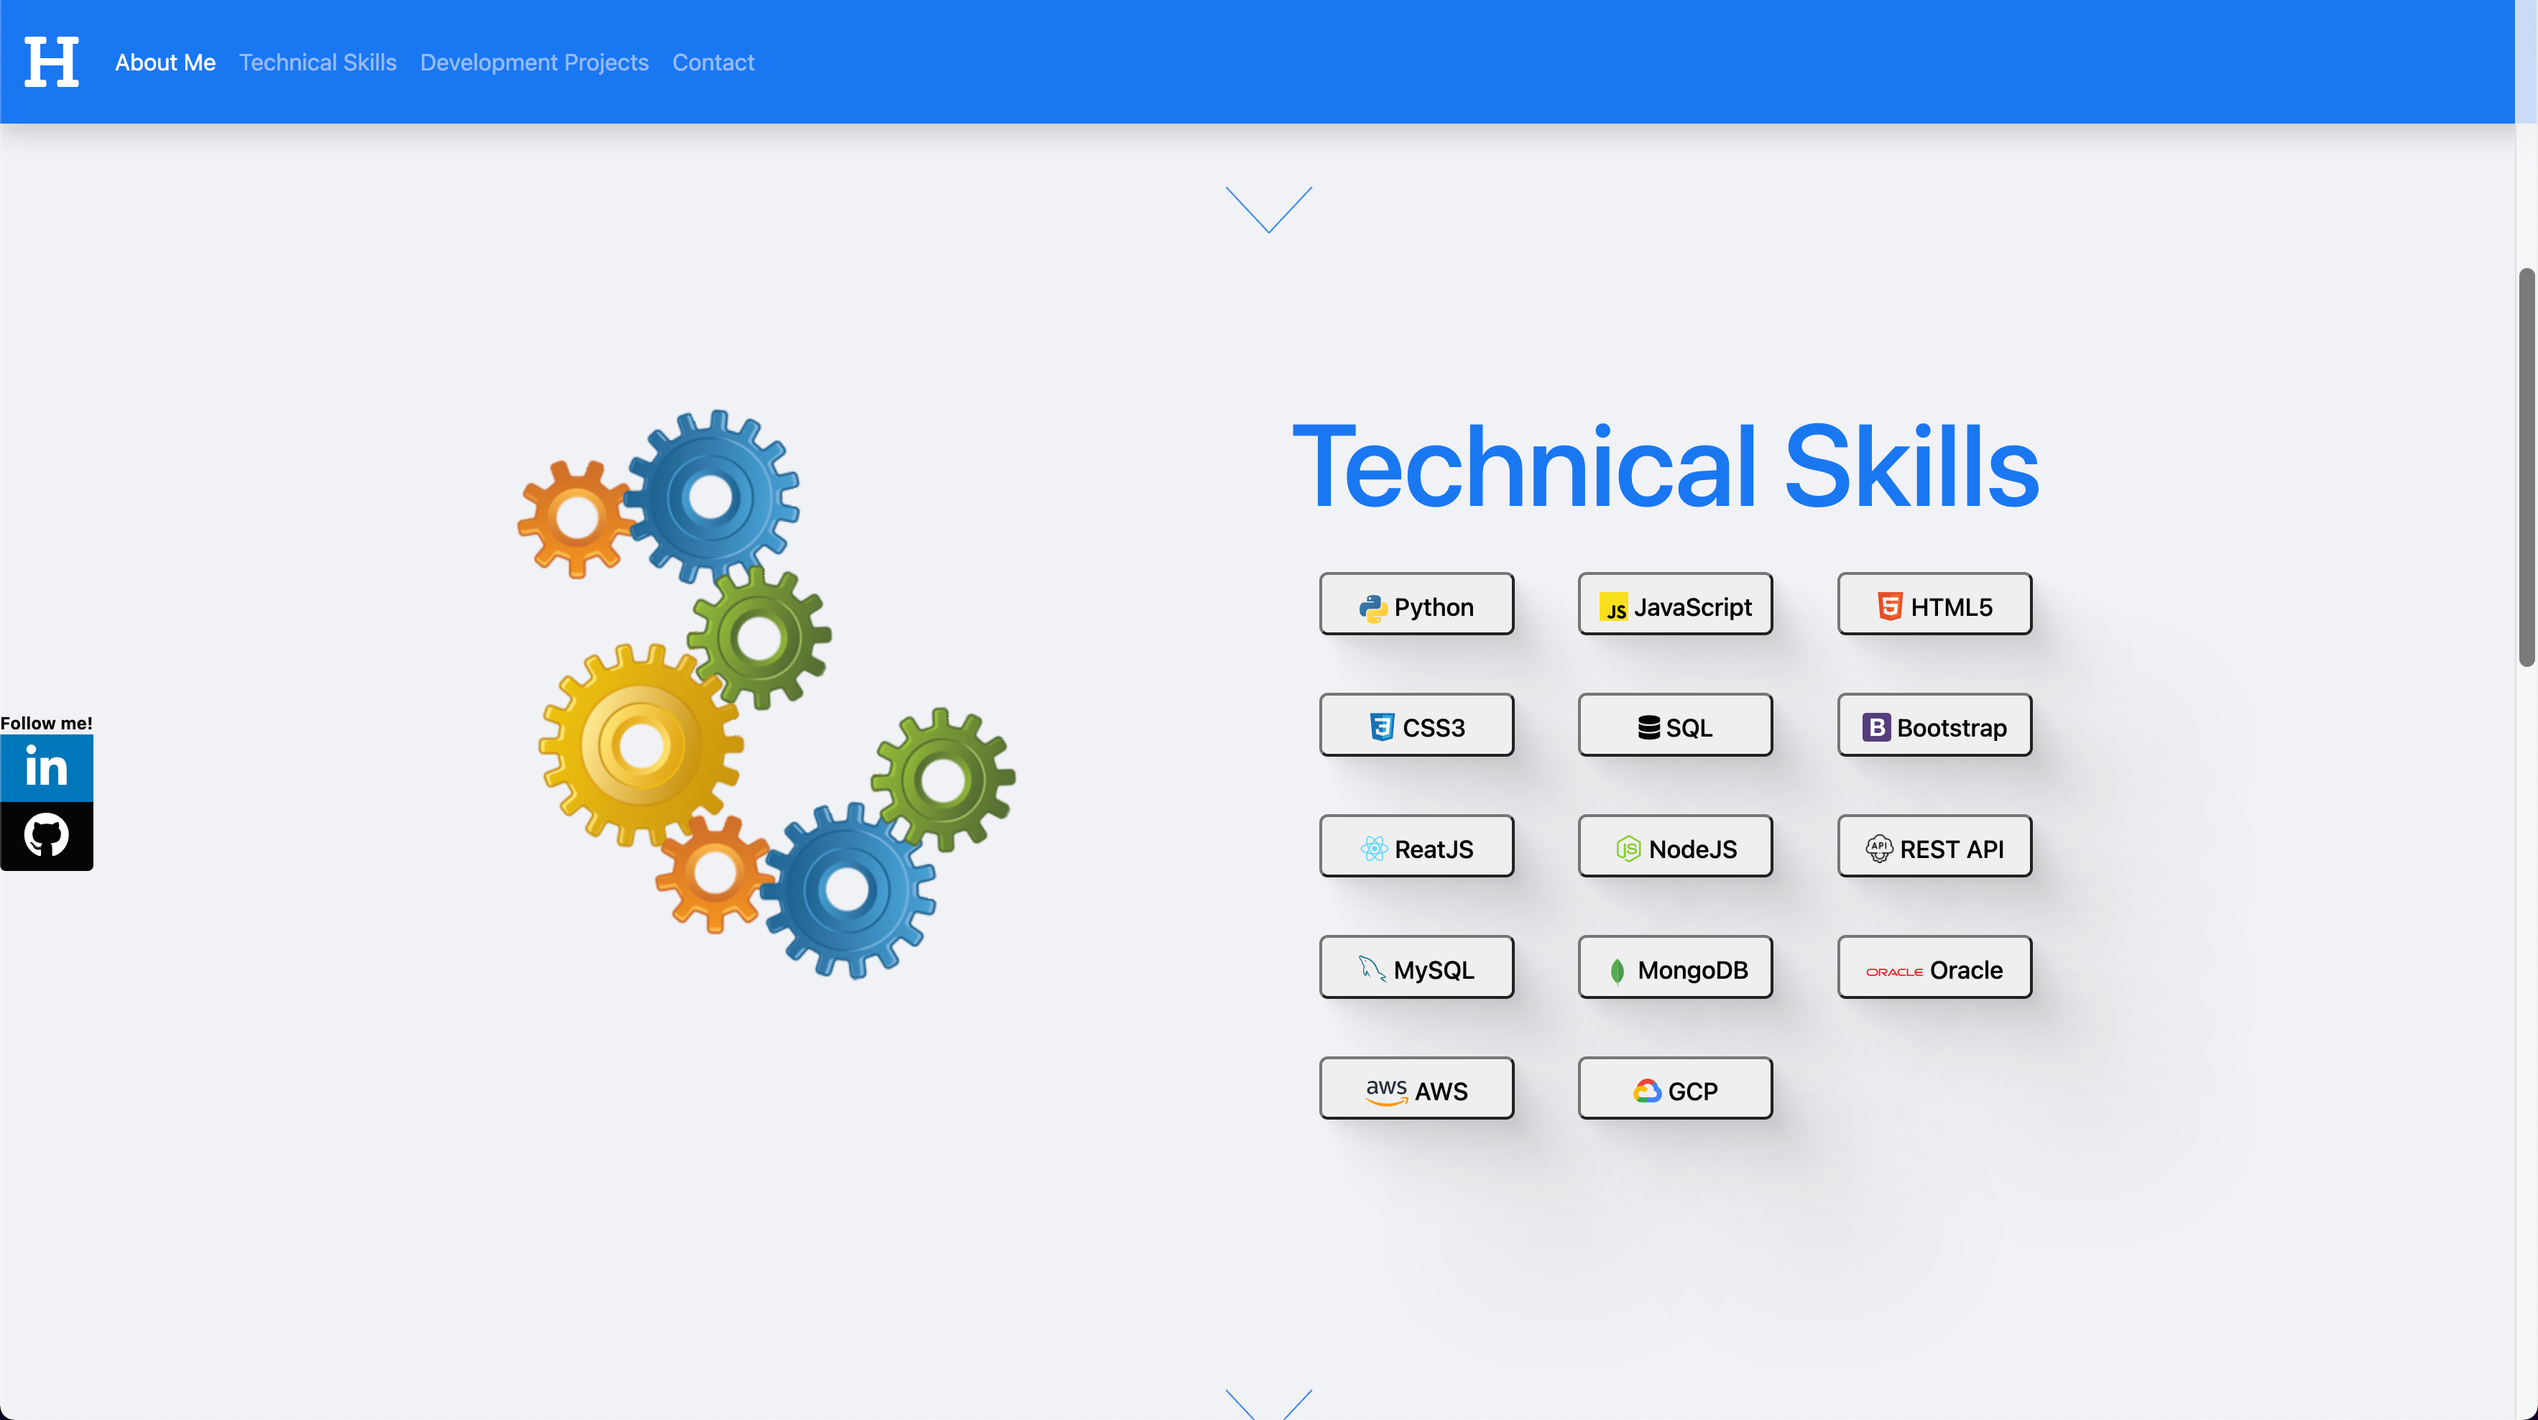
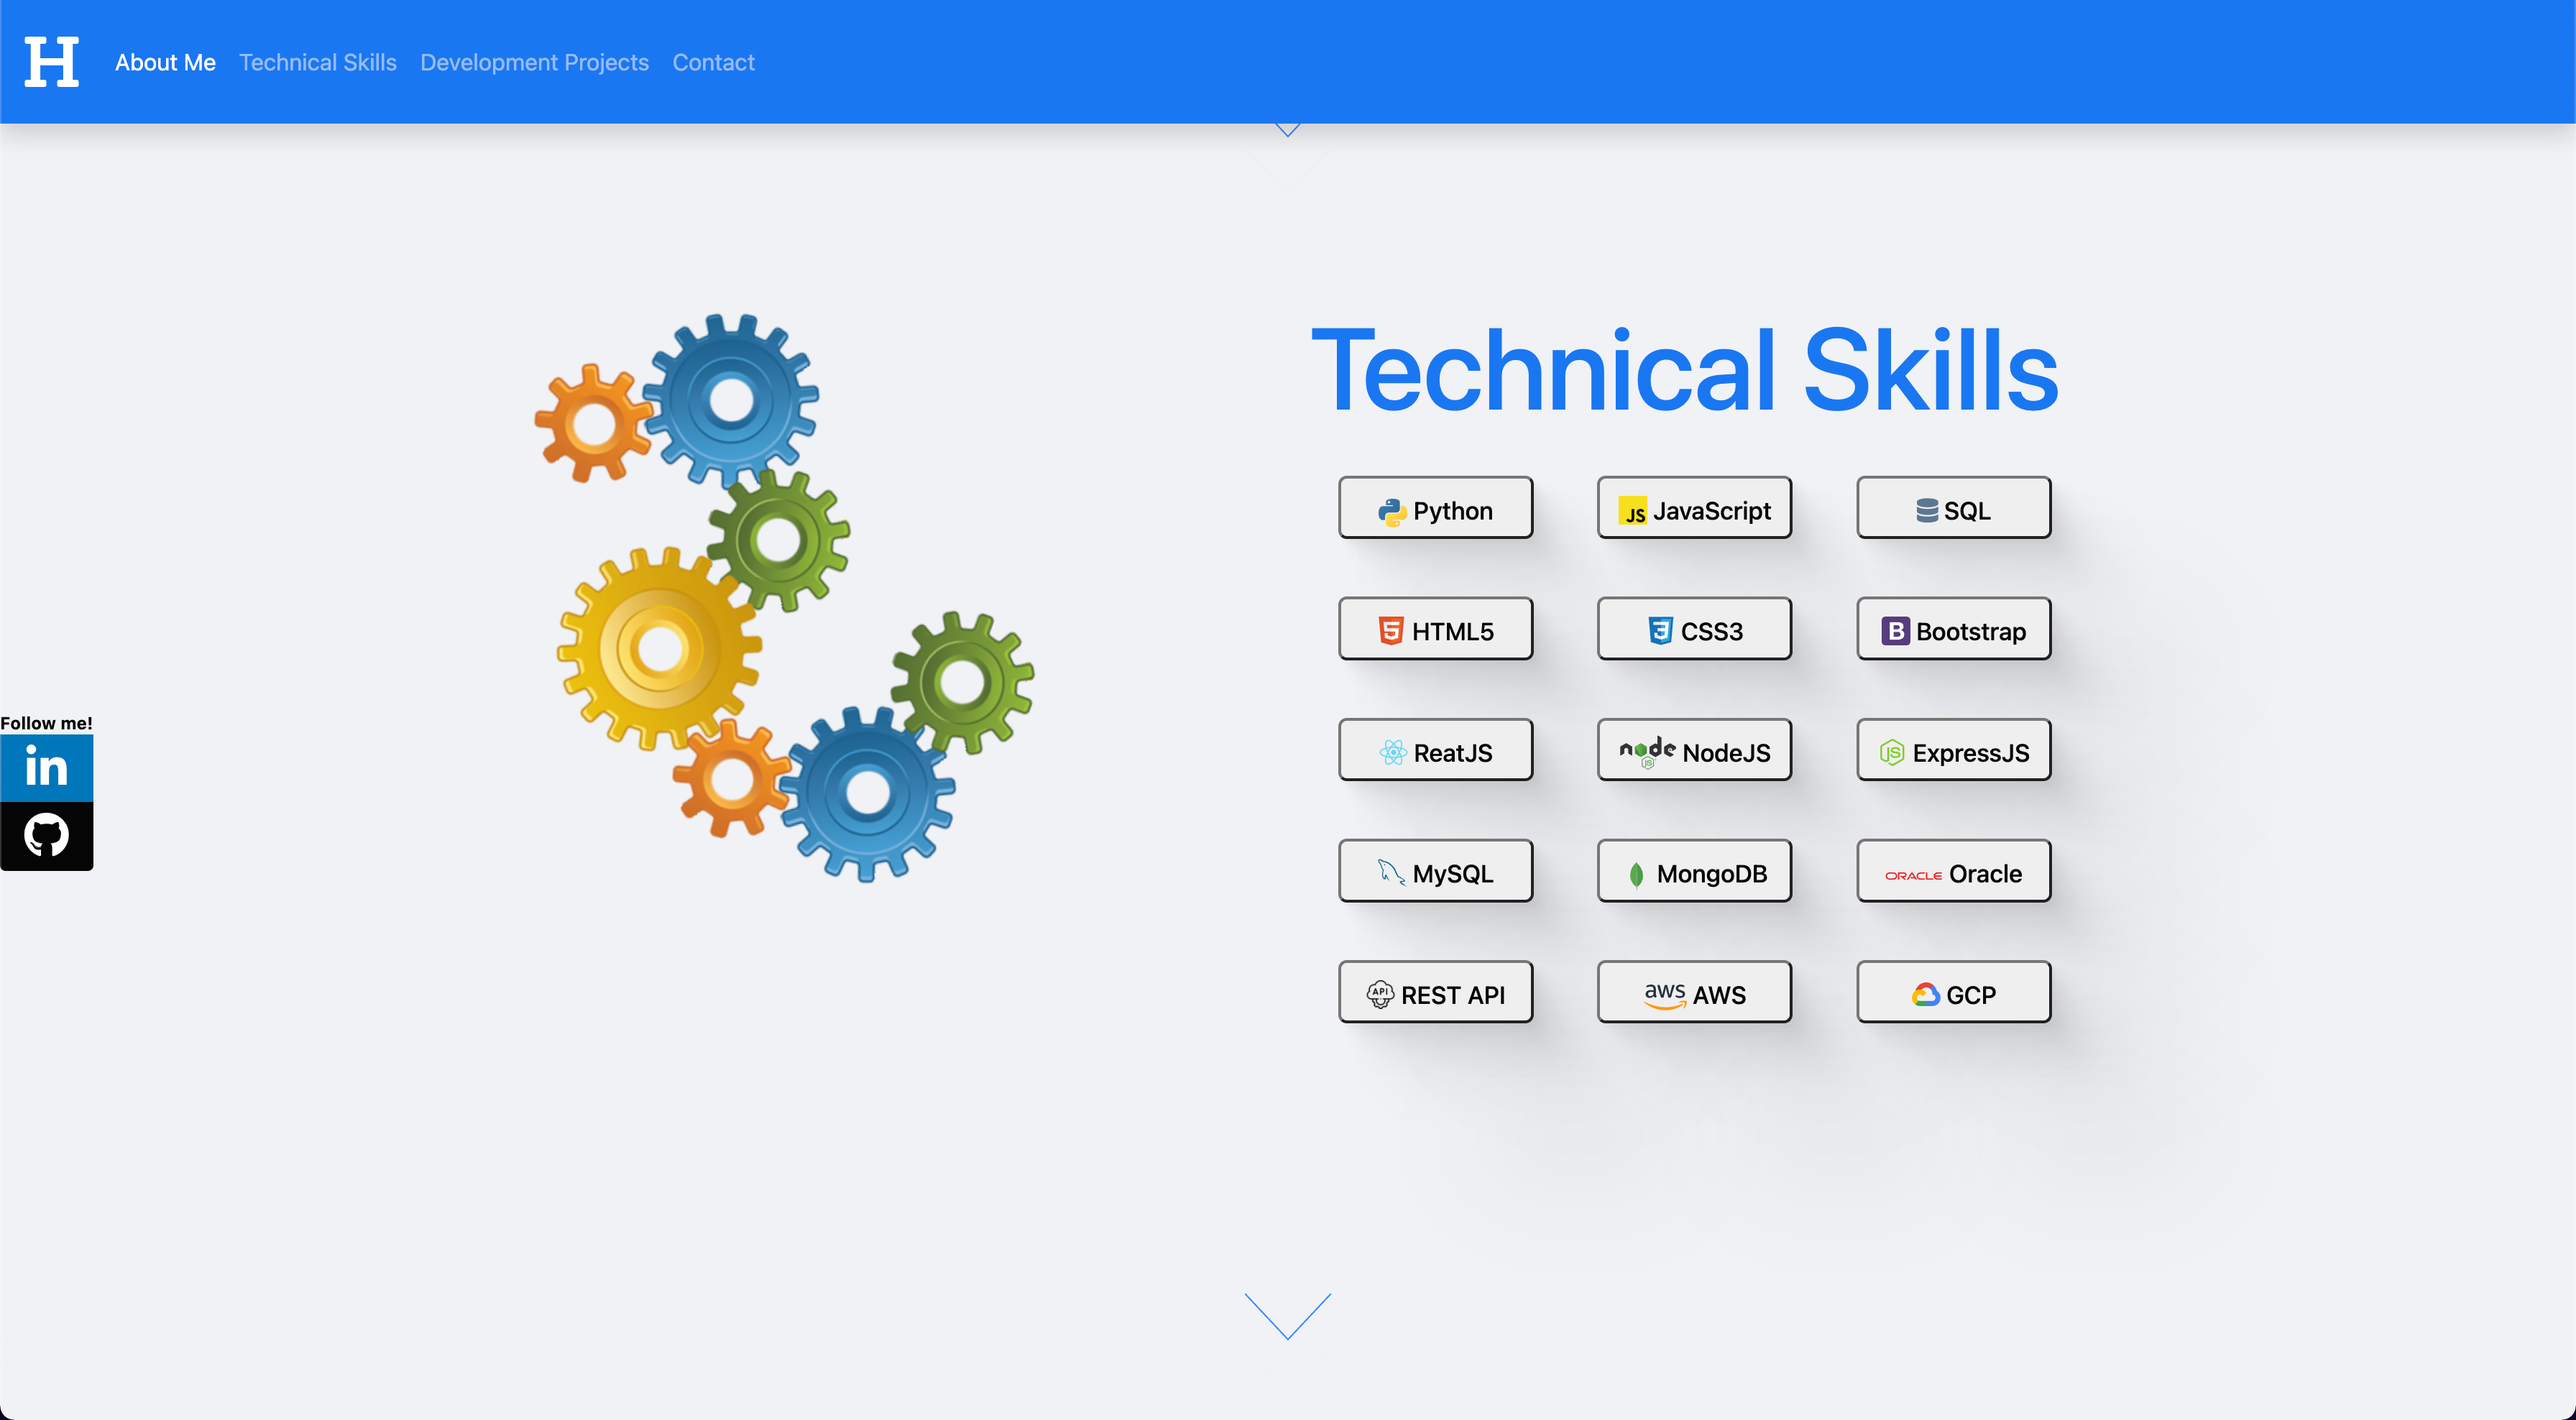
Updated technical screenshot and corrected path for contact screenshot

diff --git a/README.md b/README.md
@@ -29,7 +29,7 @@ This project is meant to create and develop a personal portfolio page. This page
 
 ![Project][project-screenshot]
 
-![Contact][content-screenshot]
+![Contact][contact-screenshot]
 
 You can access the updated website at the following link:
 * [Deployed Application]()
